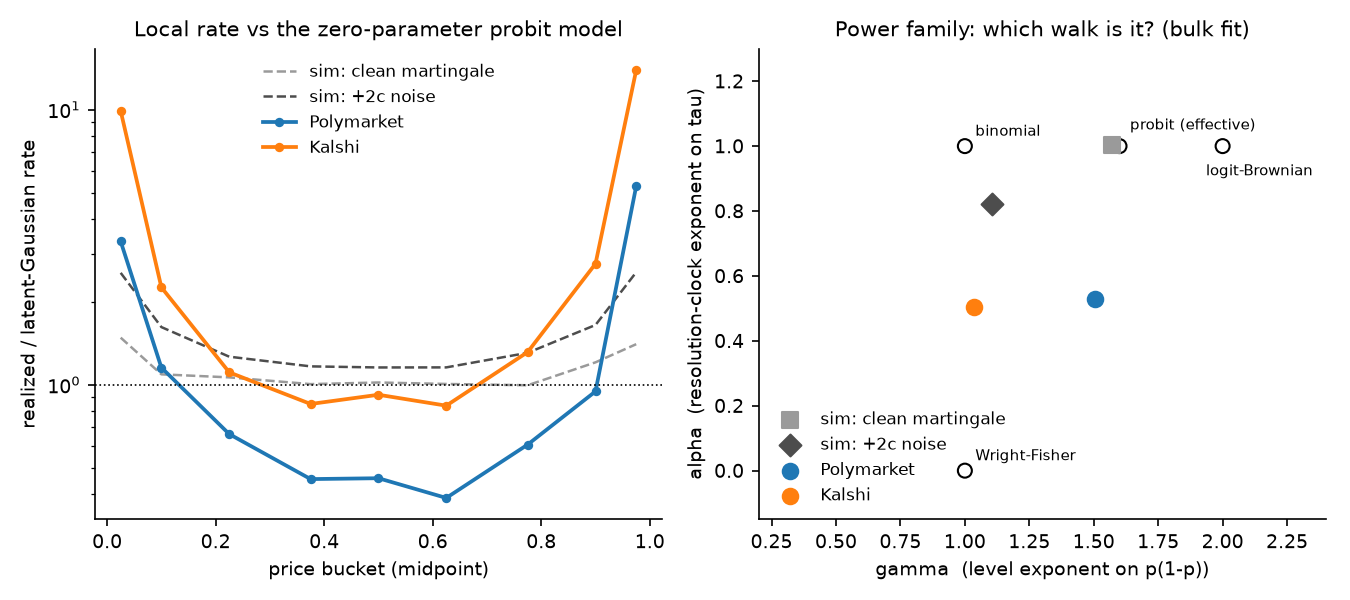
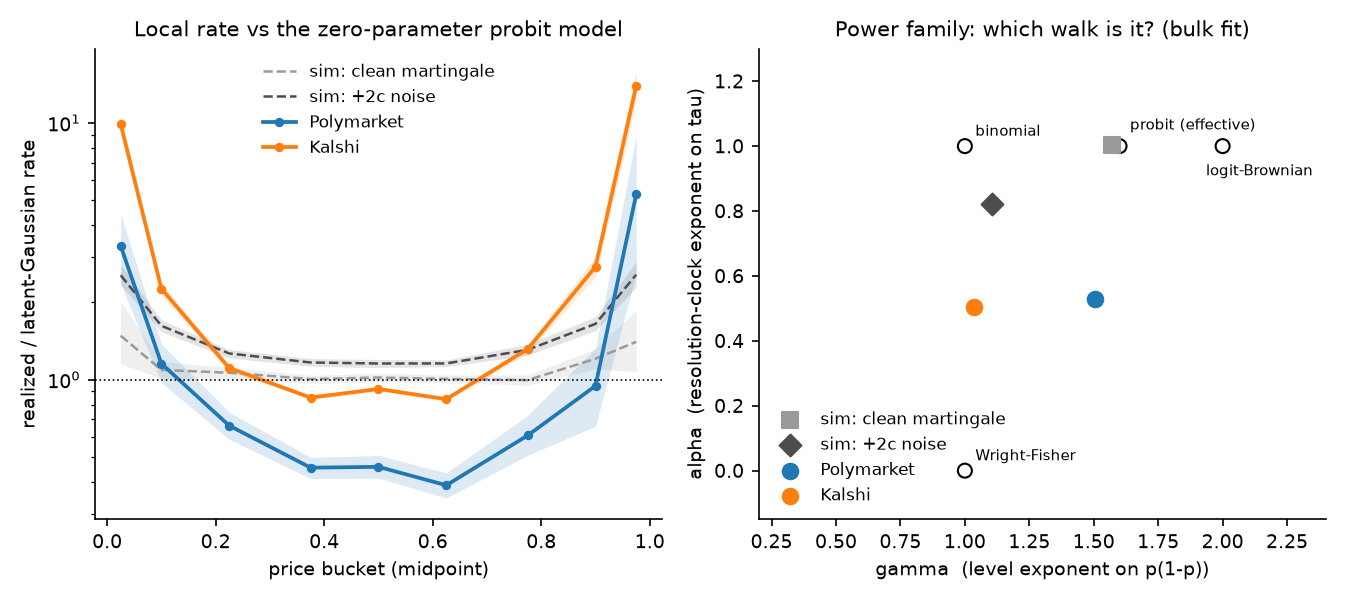
V6.6: market-clustered bootstrap CIs on local rates; crossing-pattern read
Local-rate panel gains 95% CIs from a market-level bootstrap (moves within
a market are dependent). Figure gets shaded bands; oracle test now gates
CI coverage on the clean sim. NOTES adds the interpretation: venues cross
the sims (PM bulk suppressed by staleness, both edges inflated by the
hazard/jump channel), and PM's extreme-favorite excess is not cleanly
separated from additive noise (CI [2.59, 8.89] vs noise-sim 2.88).
Registry grows to 203 claims.

Changed region(s): [[0.0311, 0.18, 0.4978, 0.84], [0.0311, 0.18, 0.0933, 0.24], [0.4667, 0.12, 0.4978, 0.18]]

diff --git a/check_docs.py b/check_docs.py
@@ -566,6 +566,42 @@ for _venue, _part, _q in [("polymarket", "global", 1.616),
         _jscalar(f"cluster65_scalars_{_venue}.json",
                  ("slv_gate", _part, "heldout_ll_per_obs")), _q, 0.0005))
 
+# ---- V6.6 local-rate CI pass (market-clustered bootstrap, run 2026-09-08):
+# numbers quoted in the NOTES crossing-pattern paragraph.
+for _lbl, _f, _bucket, _field, _q, _tol in [
+    ("V6.6 PM mid min ratio", "polymarket", "[0.55,0.70)",
+     "ratio_gauss", 0.39, 0.005),
+    ("V6.6 PM mid max ratio", "polymarket", "[0.15,0.30)",
+     "ratio_gauss", 0.66, 0.005),
+    ("V6.6 Kalshi mid min ratio", "kalshi", "[0.55,0.70)",
+     "ratio_gauss", 0.84, 0.005),
+    ("V6.6 Kalshi mid max ratio", "kalshi", "[0.70,0.85)",
+     "ratio_gauss", 1.31, 0.005),
+    ("V6.6 PM longshot edge ratio", "polymarket", "[0.00,0.05)",
+     "ratio_gauss", 3.32, 0.005),
+    ("V6.6 PM favorite edge ratio", "polymarket", "[0.95,1.00)",
+     "ratio_gauss", 5.27, 0.005),
+    ("V6.6 Kalshi longshot edge ratio", "kalshi", "[0.00,0.05)",
+     "ratio_gauss", 9.90, 0.005),
+    ("V6.6 Kalshi favorite edge ratio", "kalshi", "[0.95,1.00)",
+     "ratio_gauss", 13.93, 0.005),
+    ("V6.6 sim clean favorite edge ratio", "sim_clean", "[0.95,1.00)",
+     "ratio_gauss", 1.40, 0.005),
+    ("V6.6 sim clean longshot edge ratio", "sim_clean", "[0.00,0.05)",
+     "ratio_gauss", 1.48, 0.005),
+    ("V6.6 PM favorite ci lo", "polymarket", "[0.95,1.00)",
+     "ci_lo", 2.59, 0.005),
+    ("V6.6 PM favorite ci hi", "polymarket", "[0.95,1.00)",
+     "ci_hi", 8.89, 0.005),
+    ("V6.6 sim noise favorite ci hi", "sim_noise", "[0.95,1.00)",
+     "ci_hi", 2.88, 0.005),
+    ("V6.6 PM favorite bucket n", "polymarket", "[0.95,1.00)",
+     "n", 2243, 0),
+]:
+    CLAIMS.append(Claim(
+        _lbl, _csv(f"empirics_local_{_f}.csv", {"bucket": _bucket}, _field),
+        _q, _tol))
+
 
 def main() -> int:
     strict = "--strict" in sys.argv

diff --git a/analysis/empirics_v2.py b/analysis/empirics_v2.py
@@ -116,12 +116,14 @@ def budget(mkts: list[Market], seed: int = SEED) -> tuple[dict, pd.DataFrame]:
 
 
 # ------------------------------------------------------------------ block B
-def local_rates(pan: pd.DataFrame) -> tuple[dict, pd.DataFrame]:
+def local_rates(pan: pd.DataFrame,
+                seed: int = SEED) -> tuple[dict, pd.DataFrame]:
     y = pan["dp2"].to_numpy()
     slopes = {}
     for name in ("v_binom", "v_gauss", "v_wf"):
         b, se = origin_slope(pan[name].to_numpy(), y)
         slopes[name] = {"slope": b, "se": se}
+    rng = np.random.default_rng(seed)
     rows = []
     for b, g in pan.groupby(bucket(pan["p"].to_numpy())):
         row = {"bucket": bucket_label(int(b)), "n": len(g)}
@@ -130,6 +132,14 @@ def local_rates(pan: pd.DataFrame) -> tuple[dict, pd.DataFrame]:
             denom = g[name].mean() * scale
             row[f"ratio_{name[2:]}"] = g["dp2"].mean() / denom \
                 if denom > 0 else np.nan
+        # market-clustered bootstrap CI for the gauss ratio (moves within a
+        # market are dependent, so resample markets, not moves)
+        agg = g.groupby("key")[["dp2", "v_gauss"]].sum()
+        yk, vk = agg["dp2"].to_numpy(), agg["v_gauss"].to_numpy()
+        idx = rng.integers(0, len(yk), (N_BOOT, len(yk)))
+        boots = yk[idx].sum(1) / np.maximum(vk[idx].sum(1), 1e-300)
+        lo, hi = np.quantile(boots, [0.025, 0.975])
+        row["ci_lo"], row["ci_hi"] = float(lo), float(hi)
         rows.append(row)
     return slopes, pd.DataFrame(rows)
 

diff --git a/tests/test_empirics_v2.py b/tests/test_empirics_v2.py
@@ -49,9 +49,15 @@ def test_budget_stochvol_kept(stochvol):
 
 
 def test_gauss_rate_is_the_right_one(clean):
-    slopes, _ = local_rates(move_panel(clean))
+    slopes, buckets = local_rates(move_panel(clean))
     assert 0.90 <= slopes["v_gauss"]["slope"] <= 1.15
     assert slopes["v_binom"]["slope"] < 0.80
+    # clustered-bootstrap CIs bracket the point ratio, and the clean-sim
+    # band covers 1 in the bulk (the rate is exact there by construction)
+    assert (buckets["ci_lo"] <= buckets["ratio_gauss"] + 1e-9).all()
+    assert (buckets["ci_hi"] >= buckets["ratio_gauss"] - 1e-9).all()
+    bulk = buckets.iloc[2:-2]
+    assert ((bulk["ci_lo"] <= 1.0) & (bulk["ci_hi"] >= 1.0)).mean() >= 0.7
 
 
 def test_power_fit_tau_clock(clean):

diff --git a/analysis/figures_v6.py b/analysis/figures_v6.py
@@ -79,6 +79,9 @@ def fig_state_dependence() -> None:
         if s.startswith("sim"):
             style.update(lw=1.2, ls="--", marker=None)
         ax1.plot(x, df.ratio_gauss, label=LBL[s], **style)
+        # 95% market-clustered bootstrap band
+        ax1.fill_between(x, df.ci_lo, df.ci_hi, color=C[s], alpha=0.15,
+                         lw=0)
     ax1.axhline(1.0, color="k", lw=0.8, ls=":")
     ax1.set_yscale("log")
     ax1.set_xlabel("price bucket (midpoint)")

diff --git a/NOTES.md b/NOTES.md
@@ -152,6 +152,23 @@ run 1.2-1.6x in the bulk but **7.37** at [0, 0.05) and **12.91** at
 exceeds the 2c-noise sim benchmark (-0.195): strong bid-ask bounce on top
 of jump-dominated boundary behavior.
 
+The local-rate panel (realized over probit-predicted variance by price
+bucket, now with 95% market-clustered bootstrap bands) shows the venues
+*cross* the sims rather than sit above them. Polymarket's mid-price
+buckets ([0.15, 0.85)) run **0.39-0.66**, below even the clean sim: the
+staleness mass (zi pi0 = 0.284) suppresses realized dp^2 while the probit
+denominator keeps ticking. Kalshi's mid buckets sit at 0.84-1.31,
+consistent with its near-zero staleness. Both venues blow out at the edge
+buckets (PM **3.32** / **5.27**, Kalshi **9.90** / **13.93**), where R2
+hazard gaps and jumps do not scale with the diffusive rate and the
+phi(Phi^-1(p))^2 denominator collapses; even the clean sim lifts to
+1.40-1.48 there, so part of the edge excess is mechanical. The bands make
+one distinction honest: Kalshi's edge excess is decisively separated from
+every sim, but Polymarket's extreme-favorite bucket ([0.95, 1.00),
+n = 2,243) has band [2.59, 8.89], reaching down to the 2c-noise sim's
+upper edge (2.88): PM's favorite-side excess is not cleanly distinguished
+from additive noise.
+
 ### Power-family fit: which [0,1] coordinate
 
 `E[dp^2/dt] = c [p(1-p)]^gamma / tau^alpha` on (p, tau) cell means, bulk =
